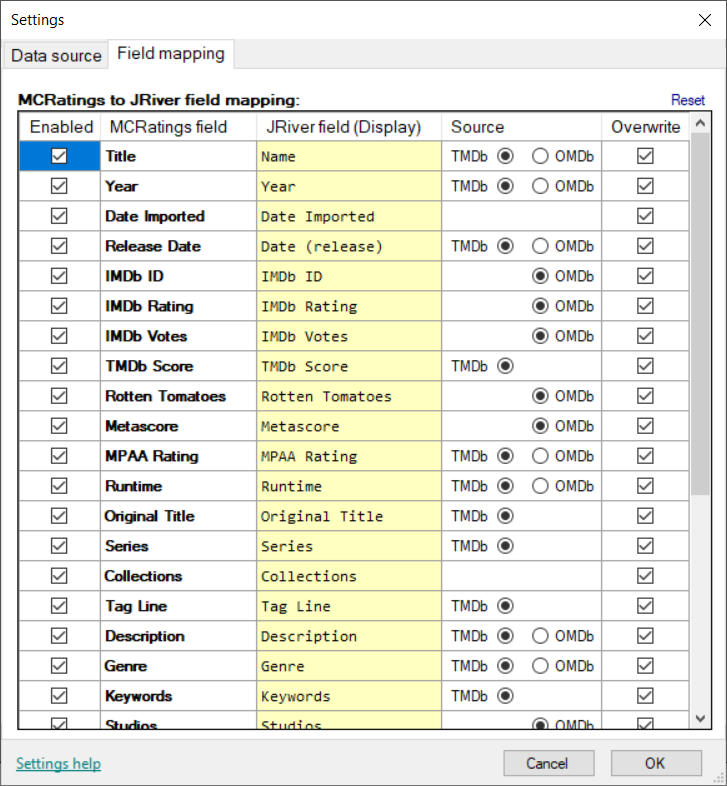
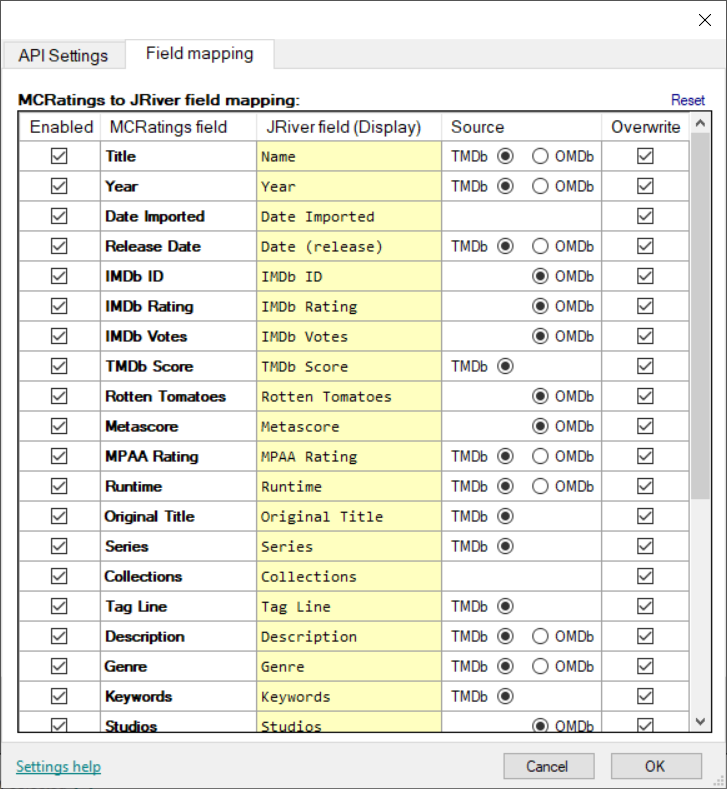
updated screenshots

diff --git a/MCRatings/Settings/SettingsUI.Designer.cs b/MCRatings/Settings/SettingsUI.Designer.cs
@@ -29,11 +29,16 @@
         private void InitializeComponent()
         {
             this.components = new System.ComponentModel.Container();
+            System.Windows.Forms.DataGridViewCellStyle dataGridViewCellStyle1 = new System.Windows.Forms.DataGridViewCellStyle();
+            System.Windows.Forms.DataGridViewCellStyle dataGridViewCellStyle2 = new System.Windows.Forms.DataGridViewCellStyle();
+            System.Windows.Forms.DataGridViewCellStyle dataGridViewCellStyle3 = new System.Windows.Forms.DataGridViewCellStyle();
             System.ComponentModel.ComponentResourceManager resources = new System.ComponentModel.ComponentResourceManager(typeof(SettingsUI));
-            System.Windows.Forms.DataGridViewCellStyle dataGridViewCellStyle7 = new System.Windows.Forms.DataGridViewCellStyle();
-            System.Windows.Forms.DataGridViewCellStyle dataGridViewCellStyle8 = new System.Windows.Forms.DataGridViewCellStyle();
-            System.Windows.Forms.DataGridViewCellStyle dataGridViewCellStyle9 = new System.Windows.Forms.DataGridViewCellStyle();
             this.gridFields = new System.Windows.Forms.DataGridView();
+            this.dgEnabled = new System.Windows.Forms.DataGridViewCheckBoxColumn();
+            this.dgSetting = new System.Windows.Forms.DataGridViewTextBoxColumn();
+            this.dgField = new System.Windows.Forms.DataGridViewTextBoxColumn();
+            this.dgOverwrite = new System.Windows.Forms.DataGridViewCheckBoxColumn();
+            this.dgSourcePlaceHolder = new System.Windows.Forms.DataGridViewTextBoxColumn();
             this.label1 = new System.Windows.Forms.Label();
             this.txtCleanup = new System.Windows.Forms.TextBox();
             this.btnSave = new System.Windows.Forms.Button();
@@ -61,11 +66,6 @@
             this.label8 = new System.Windows.Forms.Label();
             this.maxListLimit = new System.Windows.Forms.NumericUpDown();
             this.tabFields = new System.Windows.Forms.TabPage();
-            this.dgEnabled = new System.Windows.Forms.DataGridViewCheckBoxColumn();
-            this.dgSetting = new System.Windows.Forms.DataGridViewTextBoxColumn();
-            this.dgField = new System.Windows.Forms.DataGridViewTextBoxColumn();
-            this.dgOverwrite = new System.Windows.Forms.DataGridViewCheckBoxColumn();
-            this.dgSourcePlaceHolder = new System.Windows.Forms.DataGridViewTextBoxColumn();
             ((System.ComponentModel.ISupportInitialize)(this.gridFields)).BeginInit();
             this.tabSettings.SuspendLayout();
             this.tabAPI.SuspendLayout();
@@ -101,6 +101,51 @@
             this.gridFields.TabIndex = 1;
             this.gridFields.CellClick += new System.Windows.Forms.DataGridViewCellEventHandler(this.gridFields_CellClick);
             this.gridFields.CellValueChanged += new System.Windows.Forms.DataGridViewCellEventHandler(this.gridFields_CellValueChanged);
+            // 
+            // dgEnabled
+            // 
+            this.dgEnabled.AutoSizeMode = System.Windows.Forms.DataGridViewAutoSizeColumnMode.ColumnHeader;
+            this.dgEnabled.HeaderText = "Enabled";
+            this.dgEnabled.Name = "dgEnabled";
+            this.dgEnabled.Width = 65;
+            // 
+            // dgSetting
+            // 
+            dataGridViewCellStyle1.Font = new System.Drawing.Font("Microsoft Sans Serif", 7.8F, System.Drawing.FontStyle.Bold, System.Drawing.GraphicsUnit.Point, ((byte)(0)));
+            this.dgSetting.DefaultCellStyle = dataGridViewCellStyle1;
+            this.dgSetting.HeaderText = "MCRatings field";
+            this.dgSetting.Name = "dgSetting";
+            this.dgSetting.ReadOnly = true;
+            this.dgSetting.SortMode = System.Windows.Forms.DataGridViewColumnSortMode.NotSortable;
+            this.dgSetting.Width = 125;
+            // 
+            // dgField
+            // 
+            this.dgField.AutoSizeMode = System.Windows.Forms.DataGridViewAutoSizeColumnMode.Fill;
+            dataGridViewCellStyle2.BackColor = System.Drawing.Color.FromArgb(((int)(((byte)(255)))), ((int)(((byte)(255)))), ((int)(((byte)(192)))));
+            dataGridViewCellStyle2.Font = new System.Drawing.Font("Consolas", 9F, System.Drawing.FontStyle.Regular, System.Drawing.GraphicsUnit.Point, ((byte)(0)));
+            this.dgField.DefaultCellStyle = dataGridViewCellStyle2;
+            this.dgField.HeaderText = "JRiver field (Display)";
+            this.dgField.Name = "dgField";
+            this.dgField.SortMode = System.Windows.Forms.DataGridViewColumnSortMode.NotSortable;
+            // 
+            // dgOverwrite
+            // 
+            this.dgOverwrite.AutoSizeMode = System.Windows.Forms.DataGridViewAutoSizeColumnMode.ColumnHeader;
+            this.dgOverwrite.HeaderText = "Overwrite";
+            this.dgOverwrite.Name = "dgOverwrite";
+            this.dgOverwrite.Width = 70;
+            // 
+            // dgSourcePlaceHolder
+            // 
+            dataGridViewCellStyle3.Alignment = System.Windows.Forms.DataGridViewContentAlignment.TopCenter;
+            this.dgSourcePlaceHolder.DefaultCellStyle = dataGridViewCellStyle3;
+            this.dgSourcePlaceHolder.HeaderText = "Source";
+            this.dgSourcePlaceHolder.Name = "dgSourcePlaceHolder";
+            this.dgSourcePlaceHolder.ReadOnly = true;
+            this.dgSourcePlaceHolder.Resizable = System.Windows.Forms.DataGridViewTriState.True;
+            this.dgSourcePlaceHolder.SortMode = System.Windows.Forms.DataGridViewColumnSortMode.NotSortable;
+            this.dgSourcePlaceHolder.Width = 128;
             // 
             // label1
             // 
@@ -241,7 +286,7 @@
             this.chkFastStart.Location = new System.Drawing.Point(14, 398);
             this.chkFastStart.Name = "chkFastStart";
             this.chkFastStart.Size = new System.Drawing.Size(146, 20);
-            this.chkFastStart.TabIndex = 8;
+            this.chkFastStart.TabIndex = 9;
             this.chkFastStart.Text = "Fast playlist loading";
             this.toolTip1.SetToolTip(this.chkFastStart, resources.GetString("chkFastStart.ToolTip"));
             this.chkFastStart.UseVisualStyleBackColor = true;
@@ -367,7 +412,7 @@
             this.chkWebmedia.Location = new System.Drawing.Point(14, 372);
             this.chkWebmedia.Name = "chkWebmedia";
             this.chkWebmedia.Size = new System.Drawing.Size(236, 20);
-            this.chkWebmedia.TabIndex = 9;
+            this.chkWebmedia.TabIndex = 8;
             this.chkWebmedia.Text = "Use \"webmedia://\" for Trailer URLs";
             this.chkWebmedia.UseVisualStyleBackColor = true;
             this.chkWebmedia.CheckedChanged += new System.EventHandler(this.somethingChanged);
@@ -411,7 +456,7 @@
             this.tabAPI.Padding = new System.Windows.Forms.Padding(3);
             this.tabAPI.Size = new System.Drawing.Size(574, 438);
             this.tabAPI.TabIndex = 2;
-            this.tabAPI.Text = "Data source";
+            this.tabAPI.Text = "  API Settings   ";
             this.tabAPI.UseVisualStyleBackColor = true;
             // 
             // label9
@@ -456,53 +501,8 @@
             this.tabFields.Padding = new System.Windows.Forms.Padding(3);
             this.tabFields.Size = new System.Drawing.Size(574, 438);
             this.tabFields.TabIndex = 0;
-            this.tabFields.Text = "Field mapping";
+            this.tabFields.Text = "   Field mapping   ";
             this.tabFields.UseVisualStyleBackColor = true;
-            // 
-            // dgEnabled
-            // 
-            this.dgEnabled.AutoSizeMode = System.Windows.Forms.DataGridViewAutoSizeColumnMode.ColumnHeader;
-            this.dgEnabled.HeaderText = "Enabled";
-            this.dgEnabled.Name = "dgEnabled";
-            this.dgEnabled.Width = 65;
-            // 
-            // dgSetting
-            // 
-            dataGridViewCellStyle7.Font = new System.Drawing.Font("Microsoft Sans Serif", 7.8F, System.Drawing.FontStyle.Bold, System.Drawing.GraphicsUnit.Point, ((byte)(0)));
-            this.dgSetting.DefaultCellStyle = dataGridViewCellStyle7;
-            this.dgSetting.HeaderText = "MCRatings field";
-            this.dgSetting.Name = "dgSetting";
-            this.dgSetting.ReadOnly = true;
-            this.dgSetting.SortMode = System.Windows.Forms.DataGridViewColumnSortMode.NotSortable;
-            this.dgSetting.Width = 125;
-            // 
-            // dgField
-            // 
-            this.dgField.AutoSizeMode = System.Windows.Forms.DataGridViewAutoSizeColumnMode.Fill;
-            dataGridViewCellStyle8.BackColor = System.Drawing.Color.FromArgb(((int)(((byte)(255)))), ((int)(((byte)(255)))), ((int)(((byte)(192)))));
-            dataGridViewCellStyle8.Font = new System.Drawing.Font("Consolas", 9F, System.Drawing.FontStyle.Regular, System.Drawing.GraphicsUnit.Point, ((byte)(0)));
-            this.dgField.DefaultCellStyle = dataGridViewCellStyle8;
-            this.dgField.HeaderText = "JRiver field (Display)";
-            this.dgField.Name = "dgField";
-            this.dgField.SortMode = System.Windows.Forms.DataGridViewColumnSortMode.NotSortable;
-            // 
-            // dgOverwrite
-            // 
-            this.dgOverwrite.AutoSizeMode = System.Windows.Forms.DataGridViewAutoSizeColumnMode.ColumnHeader;
-            this.dgOverwrite.HeaderText = "Overwrite";
-            this.dgOverwrite.Name = "dgOverwrite";
-            this.dgOverwrite.Width = 70;
-            // 
-            // dgSourcePlaceHolder
-            // 
-            dataGridViewCellStyle9.Alignment = System.Windows.Forms.DataGridViewContentAlignment.TopCenter;
-            this.dgSourcePlaceHolder.DefaultCellStyle = dataGridViewCellStyle9;
-            this.dgSourcePlaceHolder.HeaderText = "Source";
-            this.dgSourcePlaceHolder.Name = "dgSourcePlaceHolder";
-            this.dgSourcePlaceHolder.ReadOnly = true;
-            this.dgSourcePlaceHolder.Resizable = System.Windows.Forms.DataGridViewTriState.True;
-            this.dgSourcePlaceHolder.SortMode = System.Windows.Forms.DataGridViewColumnSortMode.NotSortable;
-            this.dgSourcePlaceHolder.Width = 128;
             // 
             // SettingsUI
             // 
@@ -522,7 +522,6 @@
             this.ShowIcon = false;
             this.ShowInTaskbar = false;
             this.StartPosition = System.Windows.Forms.FormStartPosition.CenterParent;
-            this.Text = "Settings";
             this.FormClosing += new System.Windows.Forms.FormClosingEventHandler(this.SettingsUI_FormClosing);
             this.Load += new System.EventHandler(this.Settings_Load);
             this.Shown += new System.EventHandler(this.SettingsUI_Shown);
